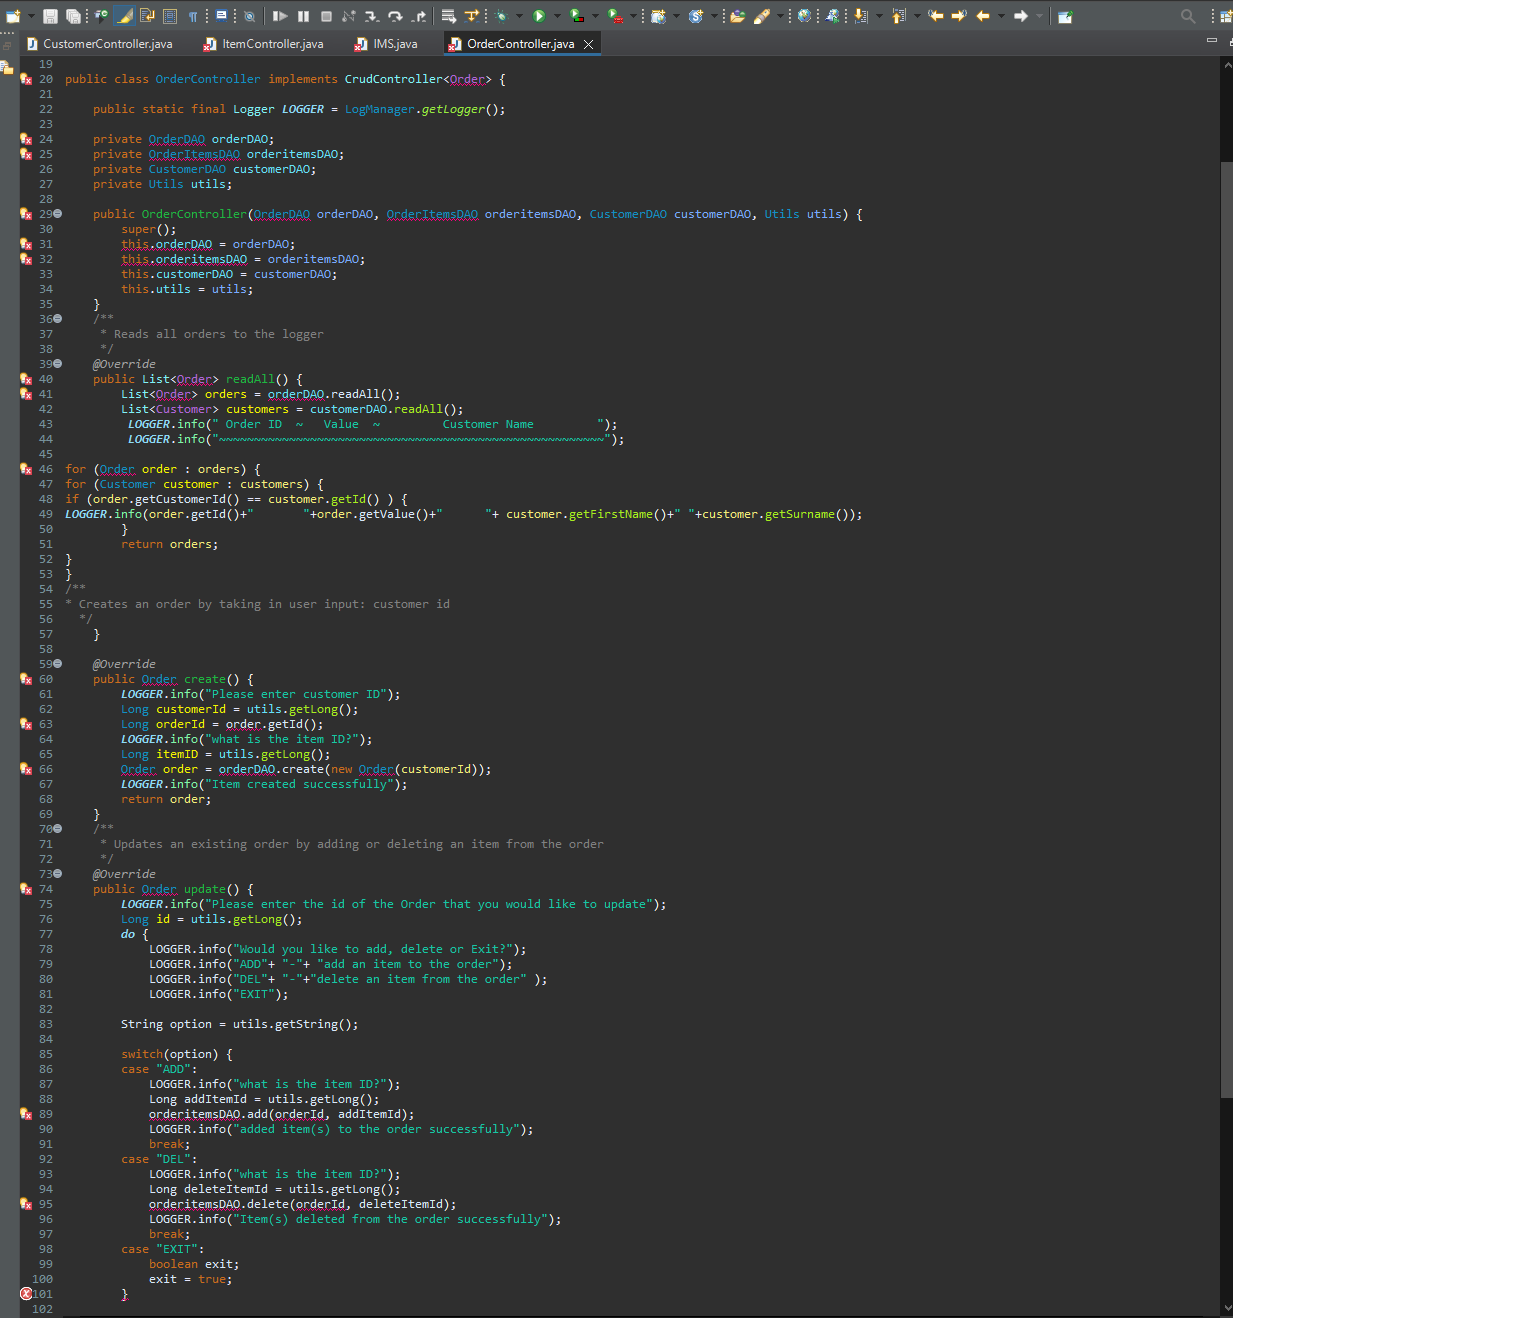
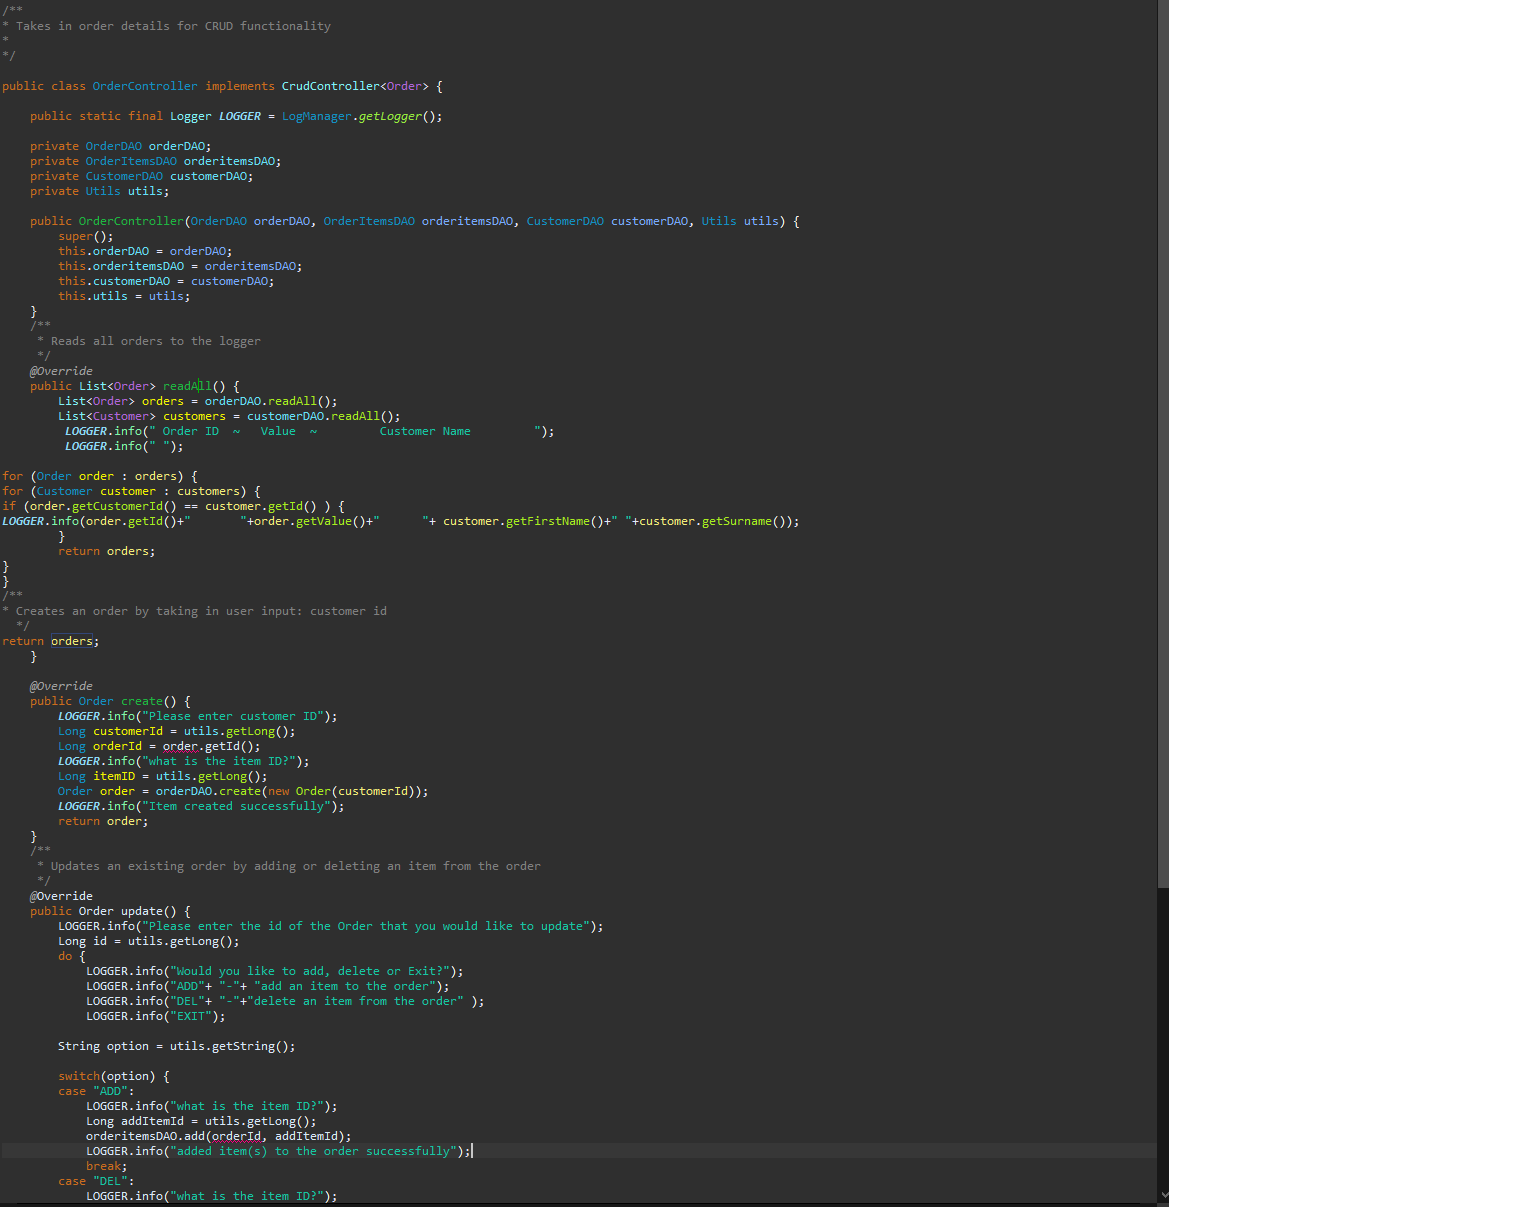
Add files via upload
OrderItems created, docs updated

diff --git a/src/main/java/com/qa/ims/persistence/domain/OrderItems.java b/src/main/java/com/qa/ims/persistence/domain/OrderItems.java
@@ -1,0 +1,91 @@
+package com.qa.ims.persistence.domain;
+
+public class OrderItems {
+
+	// Initialising private fields
+	private Long id;
+	private Long orderId;
+	private Long itemId;
+
+	// Constructor taking in parameters and calling methods to assign given
+	// parameters.
+	public OrderItems(Long orderId, Long itemId) {
+		this.setOrderId(orderId);
+		this.setItemId(itemId);
+	}
+
+	// Second constructors which assigns the parameters to the fields by calling the
+	// methods.
+	public OrderItems(Long id, Long orderId, Long itemId) {
+		this.setId(id);
+		this.setOrderId(orderId);
+		this.setItemId(itemId);
+	}
+
+	public Long getId() {
+		return id;
+	}
+
+	public void setId(Long id) {
+		this.id = id;
+	}
+
+	public Long getOrderId() {
+		return orderId;
+	}
+
+	public void setOrderId(Long orderId) {
+		this.orderId = orderId;
+	}
+
+	public Long getItemId() {
+		return itemId;
+	}
+
+	public void setItemId(Long itemId) {
+		this.itemId = itemId;
+	}
+
+	@Override
+	public String toString() {
+		return "OrderItems (id=" + id + ", orderId=" + orderId + ", itemId=" + itemId + ")";
+	}
+
+	@Override
+	public int hashCode() {
+		final int prime = 31;
+		int result = 1;
+		result = prime * result + ((id == null) ? 0 : id.hashCode());
+		result = prime * result + ((orderId == null) ? 0 : orderId.hashCode());
+		result = prime * result + ((itemId == null) ? 0 : itemId.hashCode());
+		return result;
+	}
+
+	@Override
+	public boolean equals(Object obj) {
+		if (this == obj)
+			return true;
+		if (obj == null)
+			return false;
+		if (getClass() != obj.getClass())
+			return false;
+		OrderItems other = (OrderItems) obj;
+		if (orderId == null) {
+			if (other.orderId != null)
+				return false;
+		} else if (!orderId.equals(other.orderId))
+			return false;
+		if (id == null) {
+			if (other.id != null)
+				return false;
+		} else if (!id.equals(other.id))
+			return false;
+		if (itemId == null) {
+			if (other.itemId != null)
+				return false;
+		} else if (!itemId.equals(other.itemId))
+			return false;
+		return true;
+	}
+
+}

diff --git a/src/main/java/com/qa/ims/controller/OrderController.java b/src/main/java/com/qa/ims/controller/OrderController.java
@@ -41,7 +41,7 @@ public class OrderController implements CrudController<Order> {
 		List<Order> orders = orderDAO.readAll();
 		List<Customer> customers = customerDAO.readAll();
 		 LOGGER.info(" Order ID  ~   Value  ~         Customer Name         ");
-		 LOGGER.info("~~~~~~~~~~~~~~~~~~~~~~~~~~~~~~~~~~~~~~~~~~~~~~~~~~~~~~~");
+		 LOGGER.info(" ");
 		 
 for (Order order : orders) {
 for (Customer customer : customers) {
@@ -54,6 +54,7 @@ LOGGER.info(order.getId()+"       "+order.getValue()+"      "+ customer.getFirst
 /**
 * Creates an order by taking in user input: customer id
   */
+return orders;
 	}
 
 	@Override
